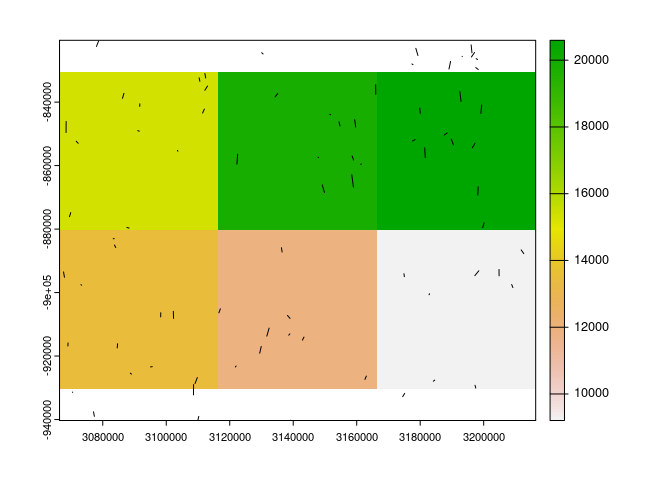
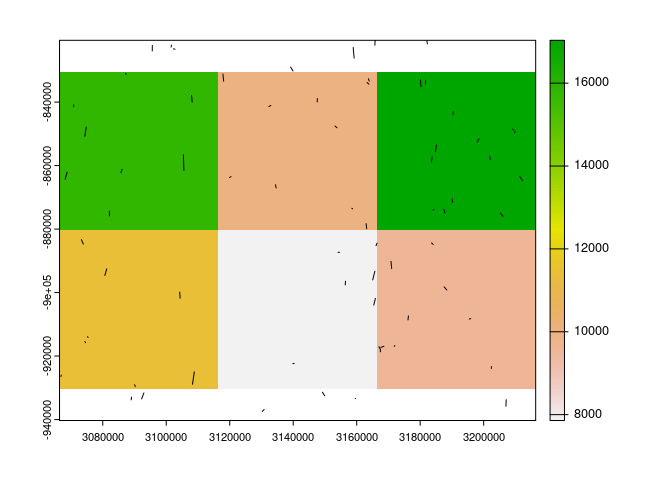
parallelize the loop in readme

diff --git a/README.md b/README.md
@@ -4,10 +4,14 @@
 # footprint
 
 <!-- badges: start -->
+
 <!-- badges: end -->
 
 The goal of footprint bin point data at very high resolution, storing a
 sparse grid. These tools use spatstat and raster packages.
+
+It just exists as the code used in abstraction from the work done in
+2015. I’d be happy to collab to extend this to ew work.
 
 ## Installation
 
@@ -18,6 +22,17 @@ You can install the development version of footprint from
 # install.packages("pak")
 pak::pak("hypertidy/footprint")
 ```
+
+We create a massive raster, an a fair umber of pretty short line
+segments, then bin those lines and record cell hits of the massive
+raster (we convert from child raster touched by the line segment). The
+output is ‘cell’, a pretty massive data frame of `cell,prob`(ability).
+
+Then, we bin the count of lowest resolution pixels touched by a line
+into a much lower resolution raster and plot it with the lines.
+
+It still takes a while, this is like 20min or something so we could
+parallelize it and perhaps a few other speedups.
 
 ``` r
 library(footprint)  
@@ -80,224 +95,58 @@ Kcell <- vector("list", nrow(pts1))
 kde <- FALSE
 
 ## this could be made a lot faster now 2023-08-07
-for (i in seq(nrow(pts1))) {
-  linp <- bpsp(pts0[i,], pts1[i,], g, diam[i]/2)
+## --parallelize the loop
+## -- (possibly rasterize with terra, can't do kde)
+## -- probably can rewrite a fair bit anyway
+# for (i in seq(nrow(pts1))) {
+#   linp <- bpsp(pts0[i,], pts1[i,], g, diam[i]/2)
+#   if (kde) {
+#    pix <- density(linp, sigma = diam[i])
+#   } else {
+#    pix <- pixellate(linp)
+#   }
+#   rd <- rast(pix)
+#   rd[rd < quantile(values(rd)[,1], 0.75)] <- NA_real_
+#   
+#   vals <- values(rd)
+#   Kcell[[i]] <- tibble::tibble(cell = cellFromXY(g, xyFromCell(rd, seq_len(ncell(rd)))[!is.na(vals), ]), 
+#         prob = na.omit(vals))  
+# if (i %% 50 == 0) print(i)
+# }
+
+## this fuction is the old loop above in parallel, which was much harder to do when it was written
+## this document is run from the shell via Rscript -e 'rmarkdown::render("README.Rmd")' &
+## because, note limitations on future::multicore when run in RStudio
+fun_pti <- function(i) {
+   linp <- bpsp(pts0[i,], pts1[i,], g, diam[i]/2)
   if (kde) {
    pix <- density(linp, sigma = diam[i])
   } else {
    pix <- pixellate(linp)
   }
   rd <- rast(pix)
-  rd[rd < quantile(values(rd)[,1], 0.75)] <- NA_real_
+  ## values() clashes with future::values 
+  rd[rd < quantile(terra::values(rd)[,1], 0.75)] <- NA_real_
   
-  vals <- values(rd)
-  Kcell[[i]] <- tibble::tibble(cell = cellFromXY(g, xyFromCell(rd, seq_len(ncell(rd)))[!is.na(vals), ]), 
-        prob = na.omit(vals))  
-if (i %% 50 == 0) print(i)
+  vals <- terra::values(rd)
+  tibble::tibble(cell = cellFromXY(g, xyFromCell(rd, seq_len(ncell(rd)))[!is.na(vals), ]), 
+        prob = na.omit(vals)) 
 }
-#> [1] 50
-#> [1] 100
-#> [1] 150
-#> [1] 200
-#> [1] 250
-#> [1] 300
-#> [1] 350
-#> [1] 400
-#> [1] 450
-#> [1] 500
-#> [1] 550
-#> [1] 600
-#> [1] 650
-#> [1] 700
-#> [1] 750
-#> [1] 800
-#> [1] 850
-#> [1] 900
-#> [1] 950
-#> [1] 1000
-#> [1] 1050
-#> [1] 1100
-#> [1] 1150
-#> [1] 1200
-#> [1] 1250
-#> [1] 1300
-#> [1] 1350
-#> [1] 1400
-#> [1] 1450
-#> [1] 1500
-#> [1] 1550
-#> [1] 1600
-#> [1] 1650
-#> [1] 1700
-#> [1] 1750
-#> [1] 1800
-#> [1] 1850
-#> [1] 1900
-#> [1] 1950
-#> [1] 2000
-#> [1] 2050
-#> [1] 2100
-#> [1] 2150
-#> [1] 2200
-#> [1] 2250
-#> [1] 2300
-#> [1] 2350
-#> [1] 2400
-#> [1] 2450
-#> [1] 2500
-#> [1] 2550
-#> [1] 2600
-#> [1] 2650
-#> [1] 2700
-#> [1] 2750
-#> [1] 2800
-#> [1] 2850
-#> [1] 2900
-#> [1] 2950
-#> [1] 3000
-#> [1] 3050
-#> [1] 3100
-#> [1] 3150
-#> [1] 3200
-#> [1] 3250
-#> [1] 3300
-#> [1] 3350
-#> [1] 3400
-#> [1] 3450
-#> [1] 3500
-#> [1] 3550
-#> [1] 3600
-#> [1] 3650
-#> [1] 3700
-#> [1] 3750
-#> [1] 3800
-#> [1] 3850
-#> [1] 3900
-#> [1] 3950
-#> [1] 4000
-#> [1] 4050
-#> [1] 4100
-#> [1] 4150
-#> [1] 4200
-#> [1] 4250
-#> [1] 4300
-#> [1] 4350
-#> [1] 4400
-#> [1] 4450
-#> [1] 4500
-#> [1] 4550
-#> [1] 4600
-#> [1] 4650
-#> [1] 4700
-#> [1] 4750
-#> [1] 4800
-#> [1] 4850
-#> [1] 4900
-#> [1] 4950
-#> [1] 5000
-#> [1] 5050
-#> [1] 5100
-#> [1] 5150
-#> [1] 5200
-#> [1] 5250
-#> [1] 5300
-#> [1] 5350
-#> [1] 5400
-#> [1] 5450
-#> [1] 5500
-#> [1] 5550
-#> [1] 5600
-#> [1] 5650
-#> [1] 5700
-#> [1] 5750
-#> [1] 5800
-#> [1] 5850
-#> [1] 5900
-#> [1] 5950
-#> [1] 6000
-#> [1] 6050
-#> [1] 6100
-#> [1] 6150
-#> [1] 6200
-#> [1] 6250
-#> [1] 6300
-#> [1] 6350
-#> [1] 6400
-#> [1] 6450
-#> [1] 6500
-#> [1] 6550
-#> [1] 6600
-#> [1] 6650
-#> [1] 6700
-#> [1] 6750
-#> [1] 6800
-#> [1] 6850
-#> [1] 6900
-#> [1] 6950
-#> [1] 7000
-#> [1] 7050
-#> [1] 7100
-#> [1] 7150
-#> [1] 7200
-#> [1] 7250
-#> [1] 7300
-#> [1] 7350
-#> [1] 7400
-#> [1] 7450
-#> [1] 7500
-#> [1] 7550
-#> [1] 7600
-#> [1] 7650
-#> [1] 7700
-#> [1] 7750
-#> [1] 7800
-#> [1] 7850
-#> [1] 7900
-#> [1] 7950
-#> [1] 8000
-#> [1] 8050
-#> [1] 8100
-#> [1] 8150
-#> [1] 8200
-#> [1] 8250
-#> [1] 8300
-#> [1] 8350
-#> [1] 8400
-#> [1] 8450
-#> [1] 8500
-#> [1] 8550
-#> [1] 8600
-#> [1] 8650
-#> [1] 8700
-#> [1] 8750
-#> [1] 8800
-#> [1] 8850
-#> [1] 8900
-#> [1] 8950
-#> [1] 9000
-#> [1] 9050
-#> [1] 9100
-#> [1] 9150
-#> [1] 9200
-#> [1] 9250
-#> [1] 9300
-#> [1] 9350
-#> [1] 9400
-#> [1] 9450
-#> [1] 9500
-#> [1] 9550
-#> [1] 9600
-#> [1] 9650
-#> [1] 9700
-#> [1] 9750
-#> [1] 9800
-#> [1] 9850
-#> [1] 9900
-#> [1] 9950
-#> [1] 10000
+
+library(furrr)
+#> Loading required package: future
+#> 
+#> Attaching package: 'future'
+#> The following object is masked from 'package:terra':
+#> 
+#>     values
+plan(multicore)
+Kcell <- future_map(seq_len(nrow(pts1)), fun_pti)
+plan(sequential)
 
 ## summarize with dplyr
 cell <- do.call(bind_rows, Kcell)
+
 ss <- cell %>% group_by(cell) %>% summarize(prob = sum(prob))
 
 rsum <- setValues(rast(ext(g), res = 50000, crs = crs(g)), 0)
@@ -307,15 +156,23 @@ rsum[xsum$foreign] <- xsum$prob
 
 plot(rsum)
 psegs(pts0, pts1, add = TRUE)
+ex2 <- ext(3064556.06339375, 3203002.1878131, -925364.448947992, -816064.877037982)
+plot(ex2, add = TRUE)
 ```
 
 <img src="man/figures/README-unnamed-chunk-2-2.png" width="100%" />
 
 ``` r
-
 ## zoom in
-plot(crop(rsum, ext(3064556.06339375, 3203002.1878131, -925364.448947992, -816064.877037982)))
+plot(crop(rsum, ex2))
 psegs(pts0, pts1, add = TRUE)
 ```
 
 <img src="man/figures/README-unnamed-chunk-2-3.png" width="100%" />
+
+## Code of Conduct
+
+Please note that the footprint project is released with a [Contributor
+Code of
+Conduct](https://contributor-covenant.org/version/2/1/CODE_OF_CONDUCT.html).
+By contributing to this project, you agree to abide by its terms.
